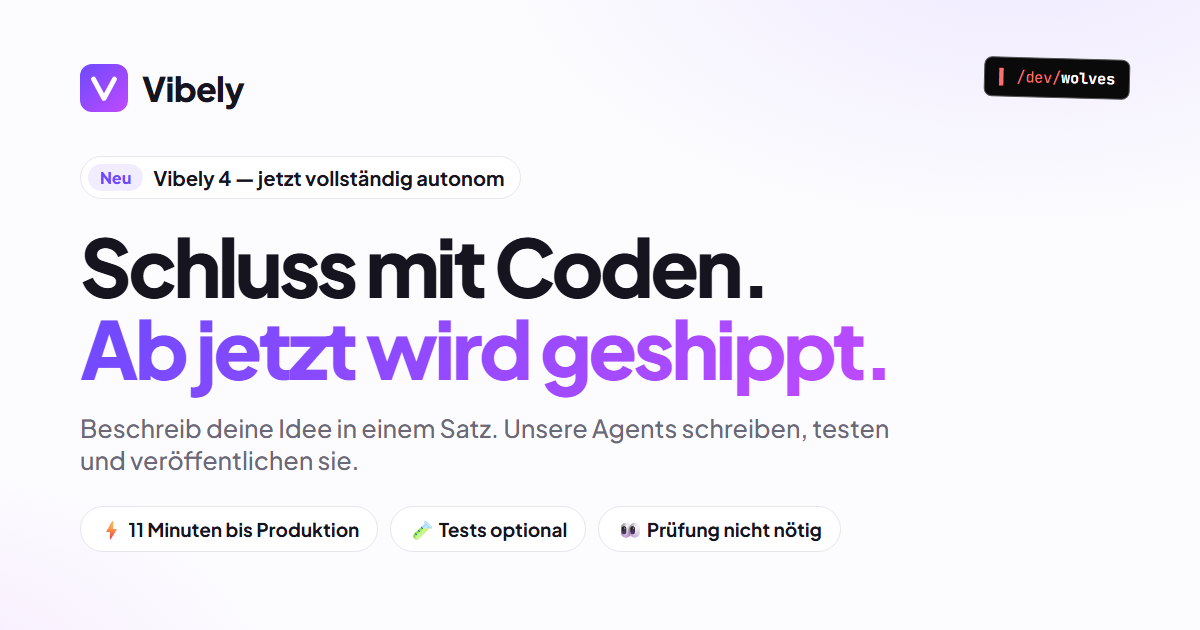
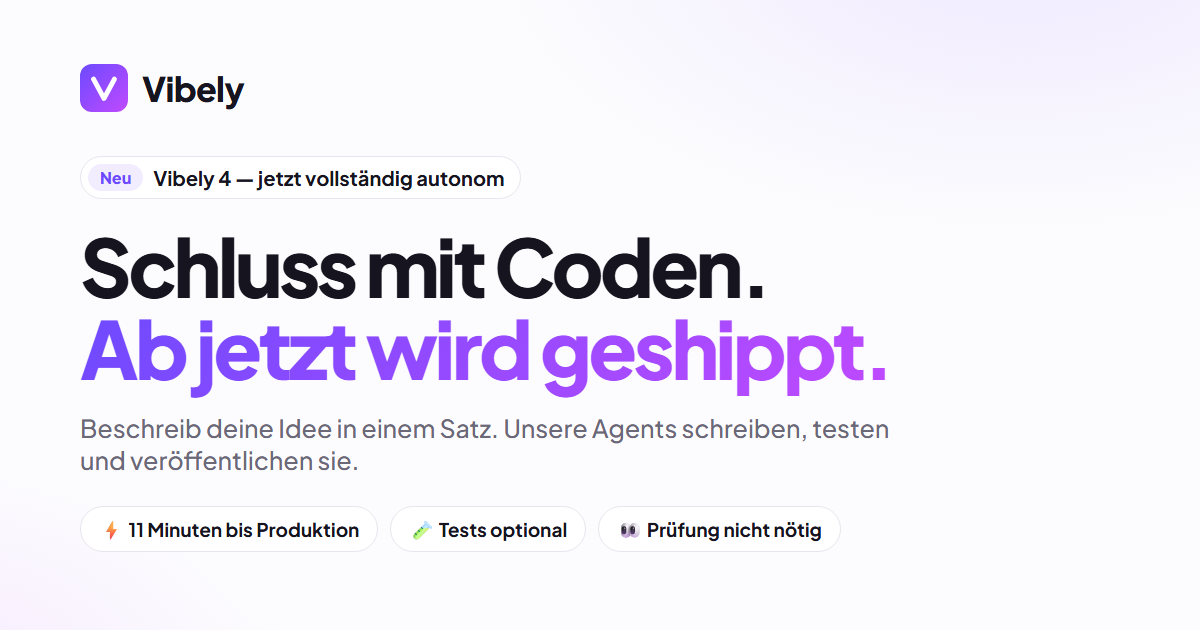
Vorschaubilder ohne Wolfs-Plakette, Sitemap ohne lastmod
Befunde aus dem Codex-Review von 4756b50:
- Die Link-Vorschau verrät /dev/wolves nicht mehr; die Bilder zeigen
  nur noch die Vibely-Werbung.
- sitemap.xml ohne <lastmod>: jeder Build hätte sonst ein neues Datum
  gemeldet, auch ohne inhaltliche Änderung.

Changed region(s): [[0.8017, 0.0905, 0.9558, 0.181]]

diff --git a/src/pages/sitemap.xml.ts b/src/pages/sitemap.xml.ts
@@ -11,11 +11,10 @@ export const GET: APIRoute = ({ site }) => {
     .map(([l, href]) => `    <xhtml:link rel="alternate" hreflang="${l}" href="${href}"/>`)
     .concat(`    <xhtml:link rel="alternate" hreflang="x-default" href="${pages.en}"/>`)
     .join('\n');
-  const lastmod = new Date().toISOString().slice(0, 10);
   const body = `<?xml version="1.0" encoding="UTF-8"?>
 <urlset xmlns="http://www.sitemaps.org/schemas/sitemap/0.9" xmlns:xhtml="http://www.w3.org/1999/xhtml">
 ${Object.values(pages)
-  .map((loc) => `  <url>\n    <loc>${loc}</loc>\n    <lastmod>${lastmod}</lastmod>\n${alt}\n  </url>`)
+  .map((loc) => `  <url>\n    <loc>${loc}</loc>\n${alt}\n  </url>`)
   .join('\n')}
 </urlset>
 `;
